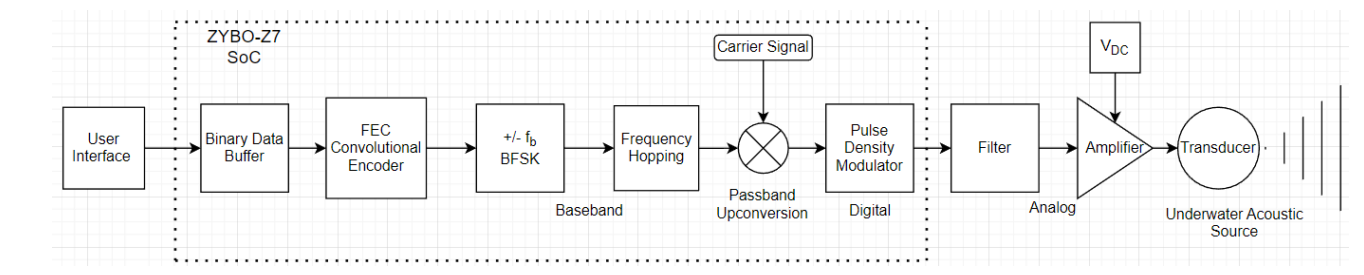
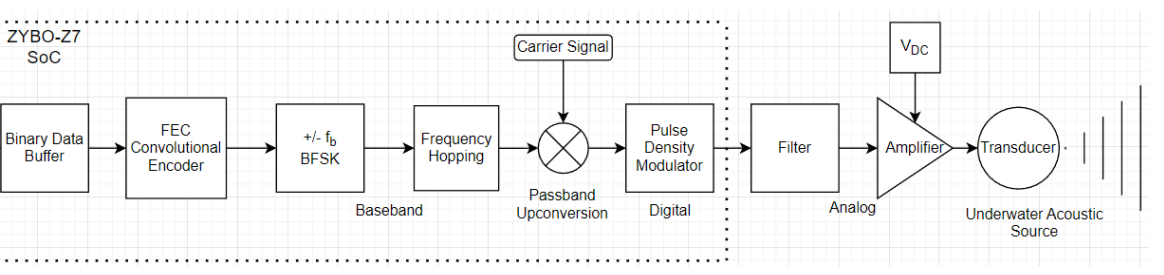
added steps to be completed

diff --git a/README.md b/README.md
@@ -102,12 +102,19 @@ These packets then go through the defined JANUS transmission sequence generation
 
 ---
 
-## Current Project Developments (As they were when we started)
-<p>
-This project, as stated above, is to develop a working transmitter chain. Thus far, the system we were given includes: 
-</p>
+## Project our Group Received
+*This project, as stated above, is to develop a working transmitter chain.*
+<br>
 
-+ On the FPGA
+**Provided Components**:
++ Zybo Z7-20 SoC (FPGA we used)
++ Filter Board
++ Amplifier Board
++ Underwater Transducer 
+
+
+**Thus far, the system includes**: 
++ *On the FPGA*
     + PN Binary Generator
     + Binary Data Buffer
     + Forward Error Correction (FEC) Convolutional Encoder
@@ -116,26 +123,88 @@ This project, as stated above, is to develop a working transmitter chain. Thus f
     + Passband Upconversion
         + This is where the carrier signal is introduced
     + Pulse Density Modulator (PDM)
-+ External from the FPGA
++ *External from the FPGA*
     + Filter Board
     + Signal Amplifier
-    + Transducer <br> 
-<p>
-<img align="left" src="./img/transmitter-chain.png">
-&nbsp;
-</p>
-<p>
-As the project stands, our current plan was to replace the PN Binary Generator and Binary Data Buffer and replace them with a Memory Controller. What this would do is take data from memory in blocks of 1024 bits, and send them down the chain. 
-</p>
-<p>
-What this would mean is that rather than developing code in Vitis, we would opt to use Petalinux to create an OS on the FPGA. This would allow us to write a driver to write to memory with a bash command like: <br> 
-</p>
+    + Transducer 
+<br> 
 
-```echo "Hello world!" > driver``` <br>
+Below is an illustration of the actual system.
+<br>
 
-<p>
-This would leave a great deal of room for configuration, which is something the project sponsor, Ultra, was interested in.
-</p>
+![transmitter-chain](/img/transmitter-chain.png)
+
+---
+
+## What We have Done during our Capstone Project
+As the project stands, there has been little done with the current chain. This project is a very research heavy implementation. As it turned out for our case, our idea of what we had to do switched many times as the scope of the project was broad and we did not absorb an entirely clear picture as for what our task was. 
+<br>
+<br>
+Because of this, a great deal of time during our capstone project was spent researching and documenting our findings for the next team that takes on this development project can have a better starting point. 
+<br>
+<br>
+Therefore, in this GitHub repository, there are many modules for getting to the point that we are currently at in the project. Some go into more detail than others, some are meant as reference guides for setting up the environment to work in, installing software, using software, and understanding the current state of the transmitter chain.
+<br>
+<br>
+There is an order to which I would advice working through these modules as to ensure that each step is being completed.
+
+1. Reading through this README\.md
+2. Reading through JANUS Module
+3. Setting up the development environment Module
+4. Understanding the transmitter chain Module
+5. Installing Vitis/Vivado Module
+6. Installing Petalinux Module (Not everyone has to do this)<br>
+a. Using Petalinux Module (Only for those that install Petalinux)<br>
+b. Going from Petalinux Output to FPGA boot<br>
+7. Using Vitus/Vivado Module
+8. Driver Development Module
+<br>
+
+It is essential that all those participating in this project complete steps 1-4 to understand what is happening with the project.
+<br>
+<br>
+It is also advised that, depending on whether you are computer or electrical, the Petalinux/Driver side of the project would be better for computer to take on. Vivado/transmitter chain would be better for Electrical to take on. 
+
+---
+
+## Future Work
+As the project stands, our current plan was to replace the PN Binary Generator and Binary Data Buffer and replace them with a Memory Controller. What this would do is take data from memory in blocks of 1024 bits, and send them down the chain. Simple, right? Wrong. This is a grandiose idea to complete, however, making sure to implement each aspect of the JANUS in the proper way will prove difficult.
+<br>
+<br>
+
+#### What is this Project Entails?
+*To achieve this deliverable, there are several additions that must be made in different aspects of the project.*
+
+##### What it would look like
+Between our group and our external and internal supervisor, we opted to create an operating system on the microprocessor. This would utilize a driver that would handle the data to be stored into a specified memory address to be used by the hardware via a memory controller. This would be controlled by a bash command as below:
+
+```bash
+echo "Hello world!" > driver
+```
+
+This would leave a great deal of room for configuration, which is something the project sponsor, Ultra, was interested in. This could also be developed further with custom bash commands. All-in-all, we believe that this would satisfy the usability and extensive configuration that Ultra had desired from the project. 
+<br>
+<br>
+Without the OS, the memory controller system would still be required, and in Vitis, you would also be able to simply scan a user. However, this would only allow for data transfer of strings, whereas the OS would allow for strings, images, data, any files to be transmitted.
+
+#### To Do Breakdown
+##### Vivado
+1. Remove PN Binary Generator
+2. Remove Binary Data Buffer
+3. Implement Memory Controller <br>
+a. Memory mapping must be done
+4. Verify each aspect of the "black box" works as intended
+
+##### Driver/Petalinux
+1. Use Petalinux to build OS for Zybo Z7-20 <br>
+a. For this, you can use Petalinux Build Module
+2. Correspond with Memory Controller development to pick specified memory location
+3. Develop driver to write data to memory location ***DYNAMICALLY***
+<br>
+<br>
+
+While this is the proposed plan, you are able to complete this project however is agreed upon within the group and the sponsor, Ultra. 
+<br>
 
 ---
 
